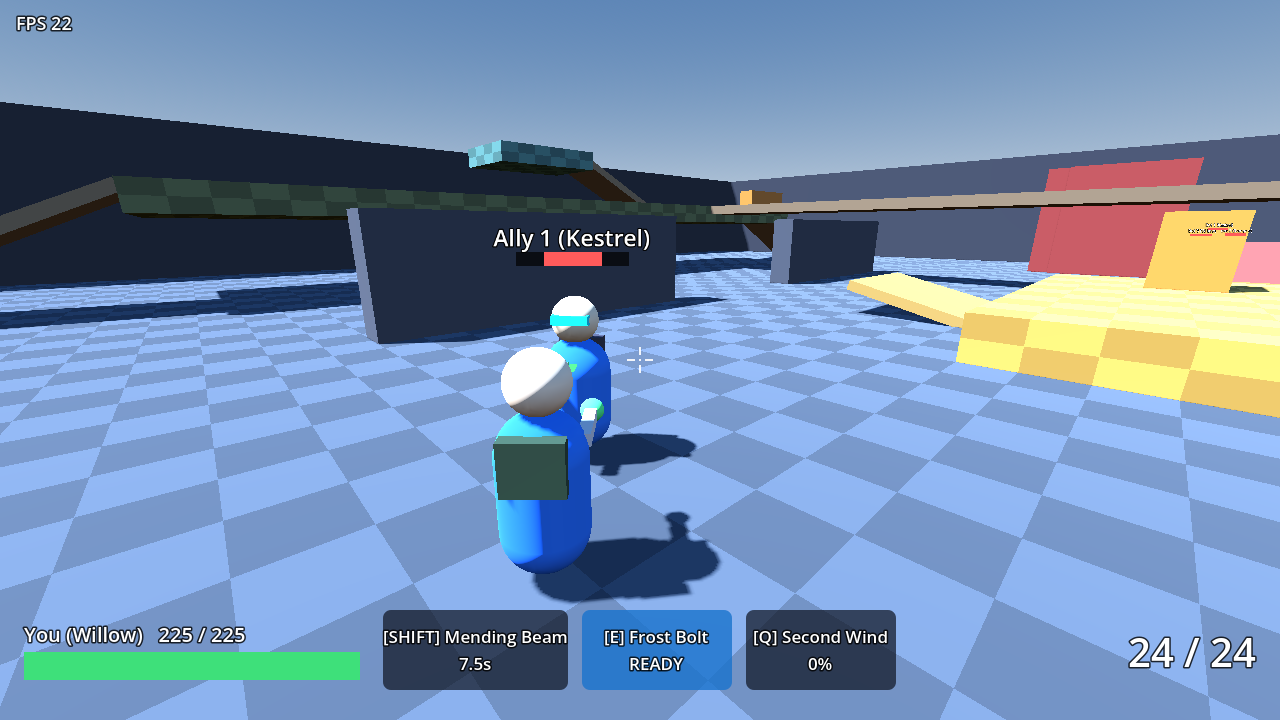
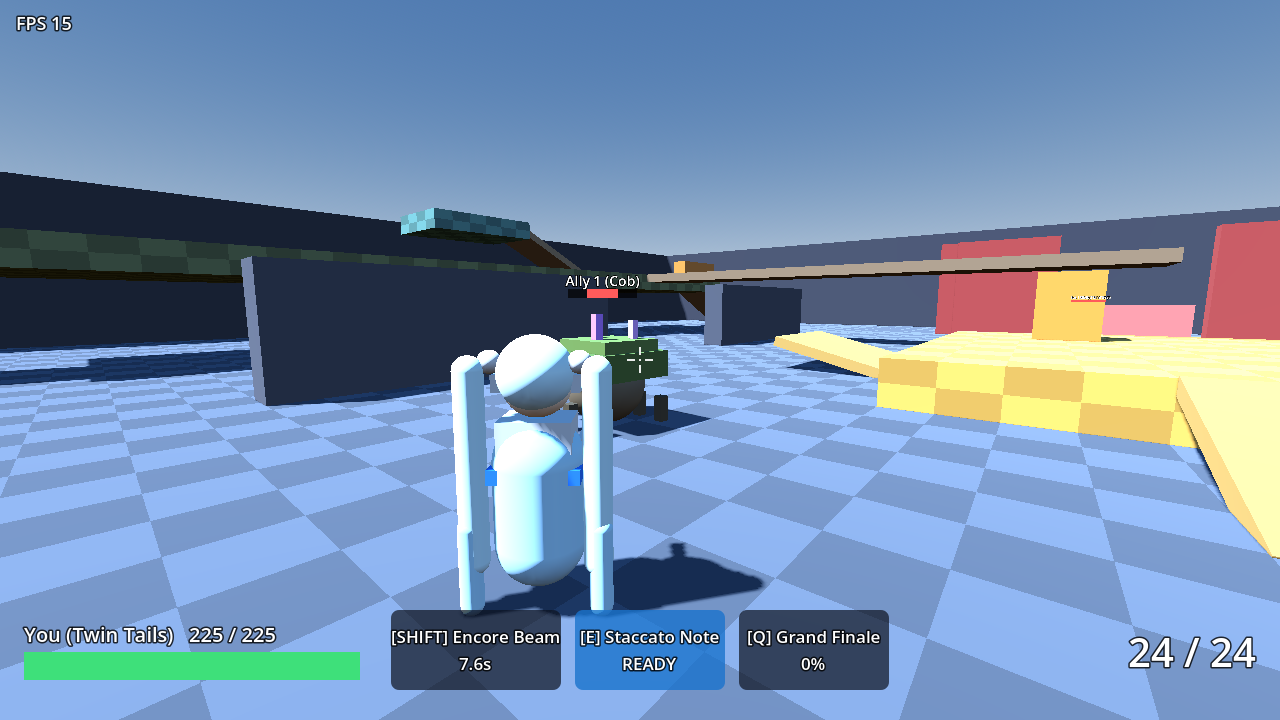
core: heroes r2 integration - default hero twin_tails, retire kestrel/rampart/willow to archive (tests repointed), roster test, MeleeCloser shim for melee bots, smoke forces unused slots, exit-leak reports non-fatal; docs §2.1 melee, hero API, leap/team_buff; v0.3 captures

diff --git a/tools/check_log.py b/tools/check_log.py
@@ -2,7 +2,8 @@
 """Gate: fail on any script error / engine ERROR / GDScript backtrace not explained by tests/expected_warnings.txt."""
 import sys, re
 allowed = [l.strip() for l in open('tests/expected_warnings.txt') if l.strip() and not l.startswith('#')]
-IGNORE = ['audio_driver_alsa', 'ALSA lib', 'Unknown PCM']   # box has no sound card
+IGNORE = ['audio_driver_alsa', 'ALSA lib', 'Unknown PCM',   # box has no sound card
+          'leaked at exit', 'still in use at exit', 'Pages in use exist at exit']   # exit-time leak reports: listed, not fatal
 bad = []
 for path in sys.argv[1:]:
     lines = open(path, errors='replace').read().splitlines()
@@ -18,6 +19,9 @@ for path in sys.argv[1:]:
             bad.append(f'{path}:{i + 1}: {l}')
         elif 'GDScript backtrace' in l and not skip_trace and not any(b.startswith(f'{path}:{i}') or b.startswith(f'{path}:{i - 1}') or b.startswith(f'{path}:{i - 2}') for b in bad):
             bad.append(f'{path}:{i + 1}: {l.strip()} (after: {lines[i - 2].strip() if i >= 2 else ""})')
+leaks = [l for p in sys.argv[1:] for l in open(p, errors='replace') if 'leaked at exit' in l]
+if leaks:
+    print(f'note: {len(leaks)} exit-time leak report(s) (non-fatal), e.g. {leaks[0].strip()}')
 for b in bad[:30]:
     print(b)
 sys.exit(1 if bad else 0)

diff --git a/docs/INTERFACES.md b/docs/INTERFACES.md
@@ -38,6 +38,15 @@ Gameplay code never reads `Input` directly.
   "abilities": {"ability1": {...}, "ability2": {...}, "ultimate": {...}},
   "model": [{"shape":"capsule|sphere|box","radius","height","size":[x,y,z],"pos":[x,y,z],"color":"#hex|team","muzzle":bool}] }
 ```
+### 2.1 Primary types
+- `hitscan` (default): `damage, fire_rate, mag, reload_time, spread_deg, range` — core `Weapon`.
+- `melee` (v0.3): `{"type":"melee","damage","fire_rate","mag" (999 = no ammo),"reload_time","range","arc_deg",
+  "combo":[mult…],"combo_window","finisher_knockback","lunge"}`. `Weapon` still gates rate; hero.gd
+  `melee_swing()` hits every enemy within `range` inside the frontal `arc_deg` (`MeleeMath.in_arc`), damage =
+  `damage × combo[i] × damage_mult()`, combo index resets after `combo_window` s; the last combo hit knocks back
+  by `finisher_knockback`. Damage kind `primary`. Bots should close to `primary.range`.
+- `projectile` primary: still deferred.
+
 ### 2.2 Ability
 Ability def: `{"id","type","name","cooldown", ...type params}`. `type` → script via
 `AbilityRegistry.TYPES`. Script extends `Ability`: `_init(hero, def)`, `can_activate()`,
@@ -54,7 +63,21 @@ Hero API for abilities (v0.2, approved with the heroes merge):
 | `effective_move_cfg()` | `movement` dict with slows applied (what `Motion.step_velocity` gets) |
 | `eye_position()`, `look_dir()`, `aim_camera`, `yaw`, `pitch`, `team`, `damage_scale` | aim/teaming; read-only for abilities |
 | `get_parent()` | the world node: abilities may add transient nodes there (projectiles, shield walls, FX) |
-Ability types (registry): `dash, ground_slam, nova, projectile, shield_wall, charge, heal_beam, rally`.
+v0.3 hero API (heroes round 2):
+| member | contract |
+|---|---|
+| `damage_mult() -> float` | `damage_scale × active buff`; ALL hero/ability damage must use it |
+| `apply_buff(mult, dur, kb_immune)` | outgoing damage × mult for dur s; optional knockback immunity |
+| `knockback(v: Vector3)` | adds velocity; ignored while `knockback_immune` |
+| `add_overheal(amount, dur)`, `overheal` | shield HP absorbed before health inside `take_damage`; the returned amount includes absorbed overheal |
+| `clear_buffs()` | called on death |
+Ability def option `"needs_ult": true`: any type can be an ultimate (requires and consumes a full meter).
+Ability types (registry): `dash, ground_slam, nova, projectile, shield_wall, charge, heal_beam, rally, leap, team_buff`.
+- `leap`: `{forward_speed, up_speed, air_time, radius, damage, knockback}` — jump forward, AoE + knockback on landing; query `leaping()`.
+- `team_buff`: `{radius, duration, damage_mult, knockback_immune, overheal}` — buffs self + allies in radius.
+- `ground_slam` now impacts only on landing after its own dive. Optional `color` on heal_beam / ground_slam.
+Roles: `tank, support, brawler, duelist`. Selectable heroes = top-level `src/heroes/*.json` only
+(v0.3: Twin Tails, The Best, Cob); retired defs live in `src/heroes/archive/` (tests only, not scanned).
 Optional ability query methods: `channeling()` (heal_beam), `active()` (shield_wall), `charging()` (charge).
 Shield walls are StaticBody3D on layer 1: they block movement, hitscan and projectiles of both teams.
 
@@ -148,7 +171,7 @@ Map selection: `GameConfig.map_id` / `-- --map=ID`; smoke runs on every map JSON
 ## 8. Match config (`GameConfig` autoload, src/core/game_config.gd)
 | member | meaning |
 |---|---|
-| `hero_id: String` | player hero (default `kestrel`); set with `set_hero(id) -> bool` (rejects unknown ids) |
+| `hero_id: String` | player hero (default `DEFAULT_HERO` = `twin_tails`); set with `set_hero(id) -> bool` (rejects unknown ids) |
 | `map_id: String` | map file id in src/maps (default `arena01`) |
 | `bot_difficulty: String` | `easy` / `normal` / `hard` → `difficulty()` = {spread_deg, turn_rate, damage_scale} |
 | `enemy_count: int` | team-1 bots, default 3 (`-- --enemies=N`); `bot_count` is an alias |

diff --git a/docs/DESIGN.md b/docs/DESIGN.md
@@ -47,6 +47,13 @@ implemented as an `Actions.sources` provider (see INTERFACES.md §1).
 Deferred to v0.2: projectile *primary* fire (`"primary": {"type": "projectile"}`, heroes request 3) —
 needs a Weapon/schema change in core; declined for now.
 
+## v0.3 roster (replaces the placeholders, which moved to src/heroes/archive/)
+| Hero | Role | Primary | Ability 1 | Ability 2 | Ultimate |
+|---|---|---|---|---|---|
+| Twin Tails | Support | Hitscan | Encore Beam (heal channel) | Staccato Note (projectile) | Grand Finale (team heal) |
+| The Best | Brawler | Melee 3-hit combo | Fearless Leap | Swagger Step (dash) | No Limits (team buff + overheal) |
+| Cob | Tank | Hitscan | Boulder Roll (charge) | Geode Wall (shield wall) | Quarry Quake (slam) |
+
 ## Roadmap
 1. v0.1 skeleton (this). 2. v0.2: 2–3 more heroes, projectile weapons, team 3v3 vs bots,
 better bot nav (NavigationRegion3D). 3. v0.3: touch controls + Android export. 4. v0.4:
